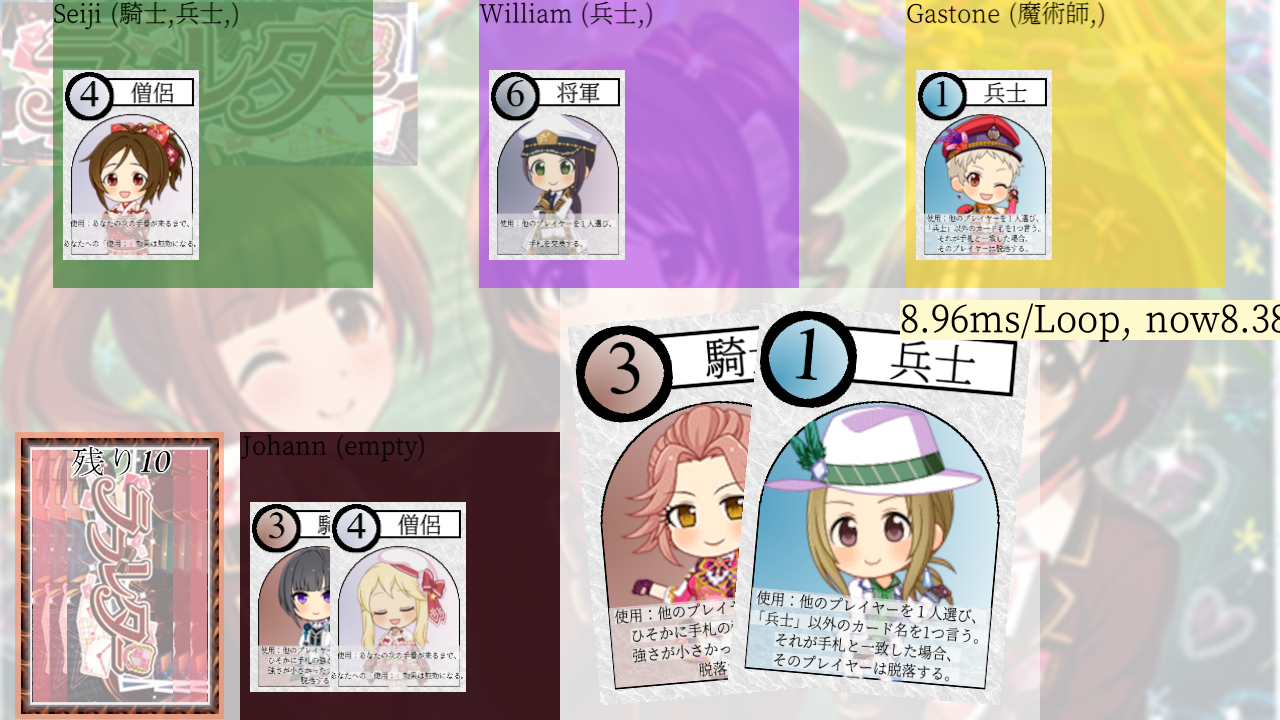
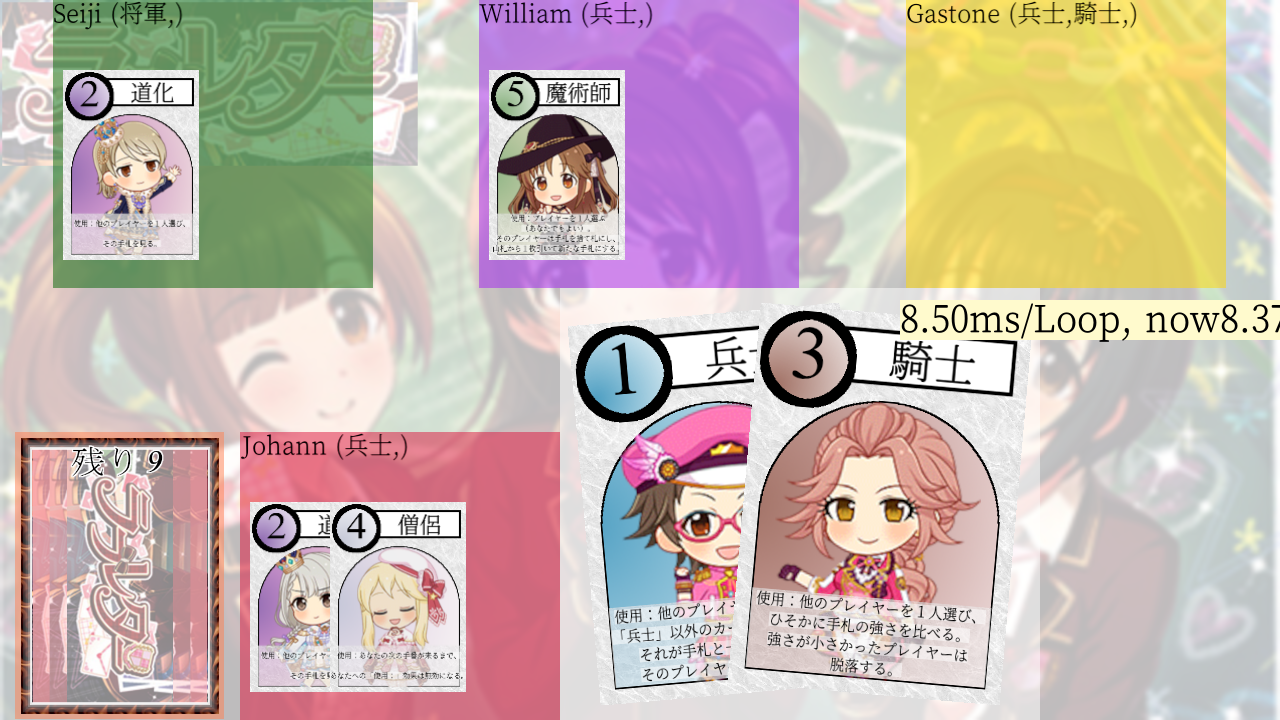
L246:道化を実装

diff --git a/ll/seed/default_deck.py b/ll/seed/default_deck.py
@@ -3,6 +3,7 @@ from random import shuffle
 from typing import Callable
 
 from any.locales import kames
+from kard.douke_effect import DoukeEffect
 from kard.kisi_effect import KisiEffect
 from kard.souryo_effect import SouryoEffect
 from kard.syougun_effect import SyougunEffect
@@ -15,6 +16,10 @@ from model.player import Player
 from ptc.bridge import Bridge
 from seed.default_router import router
 
+douke_effect = DoukeEffect(
+    guards_async=router.guards_async,
+    peeps_async=router.peeps_async
+)
 kisi_effect = KisiEffect(
     guards_async=router.guards_async,
     duels_async=router.duels_async
@@ -43,17 +48,19 @@ class DefaultDeck():
 
     def _make_deck(self) -> list[Kard]:
         deck = self._original_deck()
-        kis1 = deck[7]
-        kis2 = deck[8]
+        dou1 = deck[5]
+        dou2 = deck[6]
+        # kis1 = deck[7]
+        # kis2 = deck[8]
         pri1 = deck[9]
-        pri2 = deck[10]
+        # pri2 = deck[10]
         # wiz1 = deck[11]
         # wiz2 = deck[12]
         shuffle(deck)
         deck.insert(0, pri1)
-        deck.insert(1, pri2)
-        deck.insert(4, kis1)
-        deck.insert(5, kis2)
+        # deck.insert(1, pri2)
+        deck.insert(4, dou1)
+        deck.insert(5, dou2)
         # deck.insert(0, wiz1)
         # deck.insert(1, wiz2)
         return deck
@@ -82,7 +89,8 @@ class DefaultDeck():
         kc_params: list[tuple[KardID, Callable[[], str], int, Callable[[Bridge, Player], None]]] = [
             (KardID.BANPEI, lambda : "(番兵)", 0, _func),
             (KardID.HEISI, lambda : kames(folder="heisi", key="name"), 1, _func),
-            (KardID.DOUKE, lambda : kames(folder="douke", key="name"), 2, _func),
+            (KardID.DOUKE, lambda : kames(folder="douke", key="name"), 2, douke_effect.use_func),
+            # (KardID.DOUKE, lambda : kames(folder="douke", key="name"), 2, _func),
             (KardID.KISI, lambda : kames(folder="kisi", key="name"), 3, kisi_effect.use_func),
             (KardID.SOURYO, lambda : kames(folder="souryo", key="name"), 4, souryo_effect.use_func),
             (KardID.MAZYUTUSI, lambda : kames(folder="mazyutusi", key="name"), 5, mazyutusi_effect.use_func),

diff --git a/ll/ctrl/peeps.py b/ll/ctrl/peeps.py
@@ -1,7 +1,9 @@
 from pygame import Rect, Vector2 as V2
+from dataclasses import dataclass
+from typing import Callable
 
 from any.func import enforce
-from any.locales import lomes
+from any.locales import kames
 from any.pictures import IMG_PEEP
 from any.screen import screen, WV2
 from model.player import Player
@@ -13,18 +15,22 @@ from view.moves_view import MovesView
 from view.peep_transition import PeepTransition
 from view.player_square import PlayerSquare
 
+@dataclass
 class PeepsController():
-    def __init__(self, bridge: Bridge) -> None:
-        self.bridge = bridge
-        self.board_view = enforce(bridge.view, BoardView)
+    injector: Callable[[], Bridge]
+
+    @property
+    def bridge(self) -> Bridge:
+        return self.injector()
 
     def action(self, peeper: Player, watched: Player, subject: Player) -> None:
+        board_view = enforce(self.bridge.view, BoardView)
         p_v2 = PlayerSquare.search_v2_by_player(
-            squares=self.board_view.squares,
+            squares=board_view.squares,
             player=peeper,
         )
         w_v2 = PlayerSquare.search_v2_by_player(
-            squares=self.board_view.squares,
+            squares=board_view.squares,
             player=watched,
         )
         self.bridge.whileloop(new_view=MovesView(
@@ -47,16 +53,16 @@ class PeepsController():
             ))
             self.bridge.whileloop(new_view=MessageView(
                 view=self.bridge.view,
-                img_mes=lomes(
-                    folder="kard", key="peeps_subjective",
+                img_mes=kames(
+                    folder="douke", key="peeps_subjective",
                     watched_name=watched.name, kard_name=watched.hand.name
                 )
             ))
         else:
             self.bridge.whileloop(new_view=MessageView(
                 view=self.bridge.view,
-                img_mes=lomes(
-                    folder="kard", key="peeps_objective",
+                img_mes=kames(
+                    folder="douke", key="peeps_objective",
                     peeper_name=peeper.name, watched_name=watched.name
                 )
             ))

diff --git a/ll/kard/douke_effect.py b/ll/kard/douke_effect.py
@@ -1,0 +1,50 @@
+from dataclasses import dataclass
+from typing import Callable
+
+from any.func import enforce
+from any.locales import kames
+from model.board import Board
+from model.player import Player
+from ptc.bridge import Bridge
+# from ptc.main_view import MainView
+from view.board_view import BoardView
+from view.player_select_view import PlayerSelectView
+
+@dataclass
+class DoukeEffect():
+    guards_async: Callable[[str], None]
+    peeps_async: Callable[[Player, Player, Player], None]
+    '''フックに掛ける非同期処理を担うController.action命令を注入する。
+    '''
+
+    def use_func(self, bridge: Bridge, player: Player) -> None:
+        '''カード使用時に呼ばれる命令。
+        ２人のプレイヤーを選択するまでを担う。
+        プレイヤーがMANかCOMかOBSかで実際の選択が変わり得るが、
+        今回はMANである事を見切って実装する。
+        COM実装時にはplayer側の関数を用いる形になるだろう。
+        選択が完了したら実際のBoard更新処理はcommit_boardに投げる。
+        '''
+        bridge.whileloop(new_view=(psv := PlayerSelectView(
+            bridge=bridge,
+            exclude=bridge.board.turn_player,
+        )))
+        self.commit_board(
+            board=bridge.board,
+            peeper=player,
+            watched=psv.selected_player,
+            subject=enforce(bridge.view, BoardView).subject
+        )
+
+    def commit_board(
+            self, board: Board, peeper: Player, watched: Player, subject: Player,
+    ) -> None:
+        '''Boardのデータを実際に更新する命令。
+        非同期処理等のBoard外依存処理を直接は含まない。
+        が、guards_asyncやexchage_kards_asyncとしてSyougunEffect作成時に
+        注入したContoroller.actionを実行する事で非同期処理を噛ませる事ができる。
+        '''
+        if watched.protected:
+            self.guards_async(kames(folder="douke", key="name"))
+            return
+        self.peeps_async(peeper, watched, subject)

diff --git a/z3.py b/z3.py
@@ -1,29 +1,32 @@
-import yaml
-from typing import Any
+from random import randrange
 
-# YAMLファイルの読み込み
-def yml_load() -> dict[str, dict[str, str]]:
-    with open('messages.yml', 'r') as file:
-        messages: dict[str, dict[str, str]] = yaml.safe_load(file)
-    return messages
+N = 2
+K = 3
 
-messages = yml_load()
-print(messages)
+def trick(wins: list[int]) -> int:
+    index = randrange(0, len(wins)) 
+    wins[index] += 1
+    return wins[index]
 
-def get_message(language: str, message_key: str, **kwargs: str) -> str:
-    template = messages.get(language, {}).get(message_key, '')
-    return template.format(**kwargs)
+def game(player: int, win: int) -> int:
+    wins = [0]*player
+    tricks = 0
+    while True:
+        tricks += 1
+        if trick(wins=wins) >= win:
+            break
+    return tricks
 
-# 例として日本語のメッセージを取得
-kard_name = "カード名"
-player_name = "プレイヤー名"
-message = get_message('jp', 'elimination_message', kard_name=kard_name, player_name=player_name)
-print(message)
+def distri(player: int, win: int, attempts: int) -> list[int]:
+    li = [0]*(player*win)
+    for _ in range(attempts):
+        li[game(player=player, win=win)] += 1
+    return li
 
-# 例として英語のメッセージを取得
-message = get_message('en', 'elimination_message', kard_name=kard_name, player_name=player_name)
-print(message)
+def exp(player: int, win: int, attempts: int) -> float:
+    li1 = distri(player=player, win=win, attempts=attempts)
+    li2 = list(range(len(li1)))
+    return sum(x*y for x, y in zip(li1, li2))/sum(li1)
 
-# 例として韓国語のメッセージを取得
-message = get_message('kr', 'elimination_message', kard_name=kard_name, player_name=player_name)
-print(message)
+for p in range(1000, 10001, 1000):
+    print(f"{p}人時の勝敗確定トリック数期待値", exp(player=p, win=K, attempts=10000))

diff --git a/ll/seed/default_router.py b/ll/seed/default_router.py
@@ -2,6 +2,7 @@ from any.router import Router
 from ctrl.duels import DuelsController
 from ctrl.exchange_kards import ExchangeKardsController
 from ctrl.guards import GuardsController
+from ctrl.peeps import PeepsController
 from ctrl.protects import ProtectsController
 
 router = Router()
@@ -12,6 +13,9 @@ router.exchange_kards_async = ExchangeKardsController(
     injector=router.bridge_injector
 ).action
 router.guards_async = GuardsController(
+    injector=router.bridge_injector
+).action
+router.peeps_async = PeepsController(
     injector=router.bridge_injector
 ).action
 router.protects_async = ProtectsController(

diff --git a/ll/any/router.py b/ll/any/router.py
@@ -10,6 +10,7 @@ class Router():
     duels_async: Callable[[Player, Player], None] = lambda p1, p2: None
     guards_async: Callable[[str], None] = lambda s: None
     exchange_kards_async: Callable[[Player, Player], None] = lambda p1, p2: None
+    peeps_async: Callable[[Player, Player, Player], None] = lambda p1, p2, p3: None
     protects_async: Callable[[Player], None] = lambda p: None
 
     def bridge_injector(self) -> Bridge:

diff --git a/ll/any/func.py b/ll/any/func.py
@@ -1,5 +1,5 @@
 from pygame import Surface, SRCALPHA, Color, Rect, mouse, Vector2 as V2, transform
-from typing import Sequence, Any, TypeVar
+from typing import Sequence, Any, TypeVar, Type
 from copy import deepcopy
 
 from any.screen import screen
